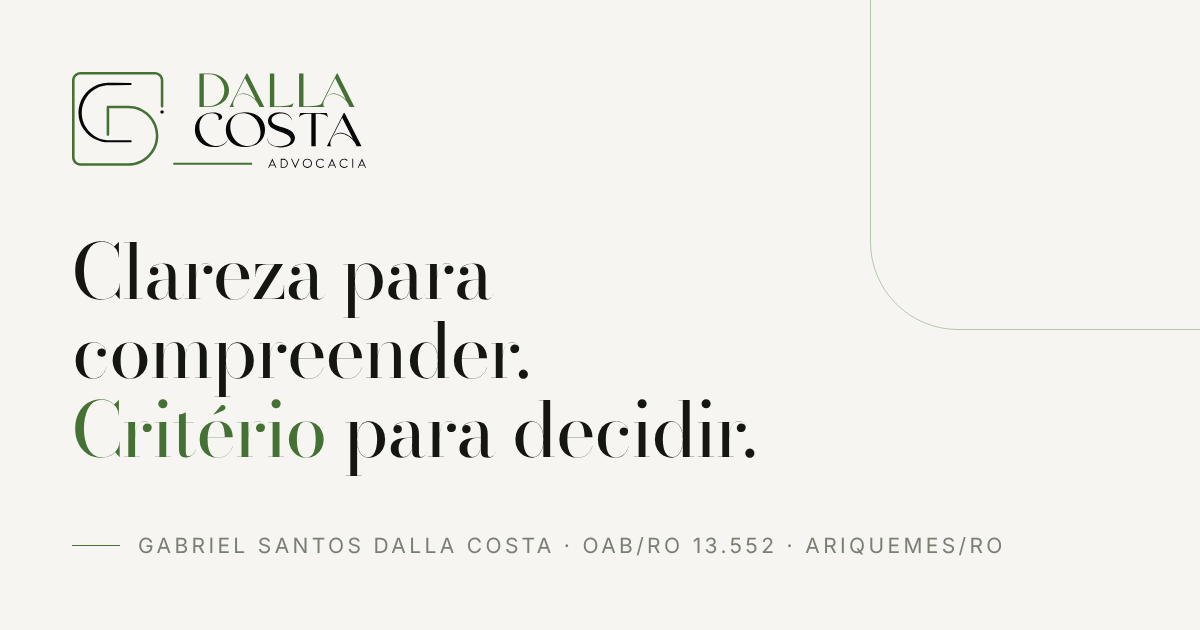
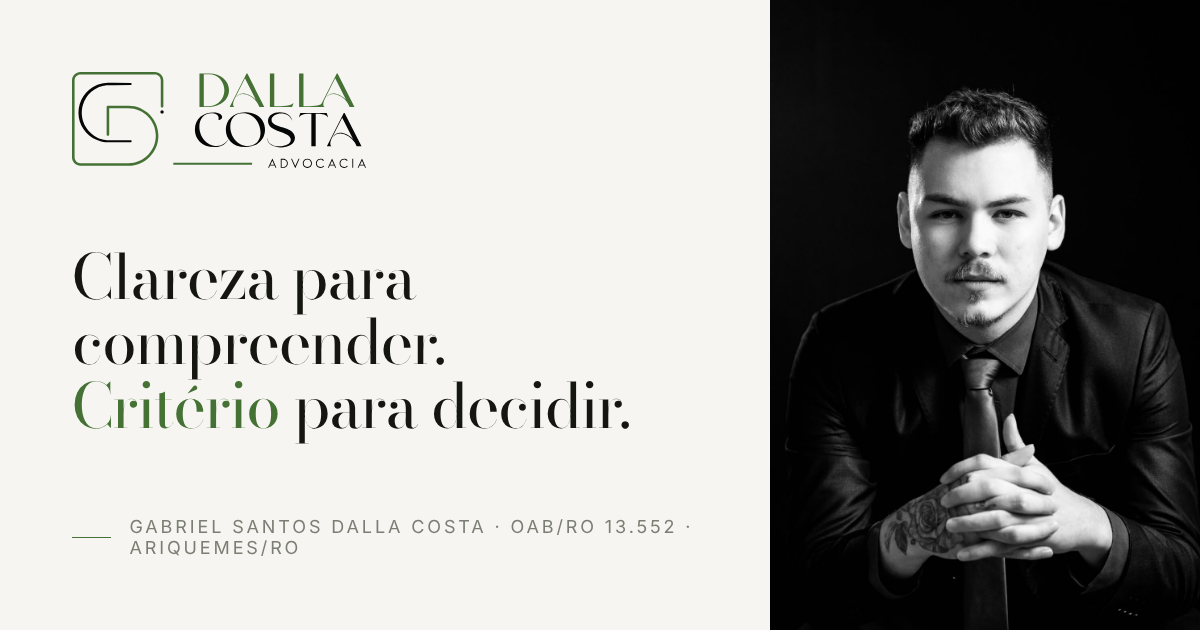
Aplica WhatsApp, domínio definitivo e retratos profissionais
- WhatsApp (69) 9 8104-3945 em formato internacional; o link é montado com a
  mensagem inicial corretamente codificada e aparece na página de contato, no
  bloco de encerramento, no rodapé e na barra fixa do celular.
- Domínio advocaciadallacosta.com.br passa a alimentar canonical, sitemap,
  robots e imagem de compartilhamento.
- Três retratos profissionais aplicados em posições distintas: preto e branco
  na primeira dobra (3:4), terno azul sentado na apresentação da home e
  sorrindo na página de perfil. Campos separados em site.fotos permitem trocar
  cada um sem afetar os outros.
- Imagem de Open Graph refeita com o retrato em preto e branco ao lado do
  logotipo e do slogan.
- Cabeçalho fixo e barra de contato do celular passam a fundo sólido: o
  conteúdo não transparece mais por trás deles ao rolar.
- Documentação atualizada: pendências restantes são e-mail profissional,
  provedor de hospedagem e, se aplicáveis, endereço e horários.

Claude-Session: https://claude.ai/code/session_01Xbs5o6TuRNAsZTSTyCj8D7

diff --git a/src/config/site.ts b/src/config/site.ts
@@ -46,7 +46,11 @@ export type SiteConfig = {
    * tipográfica da marca no lugar da fotografia — sem rosto genérico.
    */
   fotos: {
+    /** Primeira dobra da home. */
     heroRetrato: string | null;
+    /** Seção de apresentação na home. */
+    perfilRetrato: string | null;
+    /** Página /sobre. */
     sobreRetrato: string | null;
   };
   /**
@@ -71,23 +75,22 @@ export const site: SiteConfig = {
   cidadeBase: 'Ariquemes',
   uf: 'RO',
 
-  // PENDENTE: substituir pelo domínio definitivo antes de publicar.
-  dominio: 'https://www.dallacostaadvocacia.com.br',
+  dominio: 'https://advocaciadallacosta.com.br',
 
-  // PENDENTE: informar os canais reais. Enquanto forem null, o site não
-  // exibe link de WhatsApp nem endereço de e-mail.
-  whatsapp: null,
+  // 55 (país) + 69 (DDD) + número.
+  whatsapp: '5569981043945',
   mensagemWhatsapp: 'Olá, gostaria de informações sobre o atendimento.',
+  // PENDENTE: e-mail profissional. Enquanto for null, o canal não aparece.
   email: null,
   telefone: null,
   endereco: null,
   horarios: null,
   redes: [],
 
-  // PENDENTE: fotografia profissional real. Ver docs/CONTEUDO_E_PENDENCIAS.md.
   fotos: {
-    heroRetrato: null,
-    sobreRetrato: null,
+    heroRetrato: '/images/retrato-hero.jpg',
+    perfilRetrato: '/images/retrato-alternativo.jpg',
+    sobreRetrato: '/images/retrato-sobre.jpg',
   },
 
   atendimentoAtivo: true,

diff --git a/src/components/sections/Hero.tsx b/src/components/sections/Hero.tsx
@@ -45,15 +45,16 @@ export function Hero() {
           </div>
 
           <div className="entrada entrada-3 md:col-span-5">
-            <div className="relative mx-auto aspect-[4/5] w-full max-w-[20rem] md:max-w-none">
+            <div className="relative mx-auto aspect-[3/4] w-full max-w-[20rem] md:max-w-none">
               {retrato ? (
                 // eslint-disable-next-line @next/next/no-img-element -- retrato otimizado na origem; sem loader remoto.
                 <img
                   src={retrato}
                   alt={`Retrato de ${site.nomeApresentacao}, advogado`}
-                  width={720}
-                  height={900}
-                  className="h-full w-full rounded-[2.5rem] object-cover object-top"
+                  width={1066}
+                  height={1600}
+                  fetchPriority="high"
+                  className="h-full w-full rounded-[2.5rem] bg-escuro object-cover object-center"
                 />
               ) : (
                 <div className="flex h-full w-full items-center justify-center rounded-[2.5rem] bg-escuro px-10">

diff --git a/src/components/sections/Perfil.tsx b/src/components/sections/Perfil.tsx
@@ -11,7 +11,7 @@ import { site } from '@/config/site';
  * vazia esperando por uma fotografia.
  */
 export function Perfil() {
-  const retrato = site.fotos.sobreRetrato ?? site.fotos.heroRetrato;
+  const retrato = site.fotos.perfilRetrato ?? site.fotos.sobreRetrato;
 
   return (
     <Secao>
@@ -23,10 +23,10 @@ export function Perfil() {
               <img
                 src={retrato}
                 alt={`${site.nomeApresentacao}, advogado`}
-                width={640}
-                height={768}
+                width={1066}
+                height={1600}
                 loading="lazy"
-                className="h-full w-full object-cover object-top"
+                className="h-full w-full object-cover object-center"
               />
             </div>
           </div>

diff --git a/src/components/layout/SiteHeader.tsx b/src/components/layout/SiteHeader.tsx
@@ -44,7 +44,7 @@ export function SiteHeader({ navegacao }: { navegacao: ItemNavegacao[] }) {
   return (
     <header
       className={`sticky top-0 z-50 transition-colors duration-300 ${
-        rolou || menuAberto ? 'bg-papel/95 backdrop-blur-sm border-b border-linha' : 'bg-transparent border-b border-transparent'
+        rolou || menuAberto ? 'bg-papel border-b border-linha' : 'bg-transparent border-b border-transparent'
       }`}
     >
       <div className="mx-auto flex max-w-site items-center justify-between gap-6 px-gutter py-4 md:py-5">

diff --git a/src/components/layout/BarraContatoMobile.tsx b/src/components/layout/BarraContatoMobile.tsx
@@ -24,7 +24,7 @@ export function BarraContatoMobile() {
 
   return (
     <div
-      className={`fixed inset-x-0 bottom-0 z-40 border-t border-linha bg-papel/95 backdrop-blur-sm transition-transform duration-300 md:hidden ${
+      className={`fixed inset-x-0 bottom-0 z-40 border-t border-linha bg-papel transition-transform duration-300 md:hidden ${
         visivel ? 'translate-y-0' : 'translate-y-full'
       }`}
       style={{ paddingBottom: 'env(safe-area-inset-bottom)' }}

diff --git a/src/app/sobre/page.tsx b/src/app/sobre/page.tsx
@@ -49,8 +49,8 @@ export default function Sobre() {
                 <img
                   src={retrato}
                   alt={`${site.nomeApresentacao}, advogado`}
-                  width={640}
-                  height={768}
+                  width={1066}
+                  height={1600}
                   className="h-full w-full object-cover object-top"
                 />
               ) : (

diff --git a/docs/CONTEUDO_E_PENDENCIAS.md b/docs/CONTEUDO_E_PENDENCIAS.md
@@ -14,28 +14,41 @@ Situação em 23 de outubro de 2026.
 | Outras áreas | Avaliadas caso a caso e conduzidas em parceria — publicado como nota discreta, sem anunciar especialidade |
 | Disponibilidade | Apto e disponível para atender |
 | Modalidades | Presencial em Ariquemes/RO e por videoconferência |
+| WhatsApp | (69) 9 8104-3945 — gravado como `5569981043945` |
+| Domínio | `advocaciadallacosta.com.br` |
+| Retratos | Três fotografias profissionais recebidas e aplicadas |
 
 ## 2. Pendências que impedem a publicação
 
-| # | Pendência | Onde entra | Por que trava |
+| # | Pendência | Onde entra | Por que importa |
 | --- | --- | --- | --- |
-| 1 | **Número de WhatsApp** (formato internacional, ex.: `5569999999999`) | `src/config/site.ts` → `whatsapp` | Sem ele nenhum link é gerado. O site não inventa destinatário: a página de contato fica sem canal. |
-| 2 | **E-mail profissional** | `src/config/site.ts` → `email` | Mesmo motivo. |
-| 3 | **Domínio definitivo** | `src/config/site.ts` → `dominio` | Alimenta canonical, sitemap e imagem de compartilhamento. O valor atual é um palpite e precisa ser corrigido antes do build de produção. |
-| 4 | **Provedor de hospedagem** | `src/config/site.ts` → `provedorHospedagem` | Citado na política de privacidade. Enquanto `null`, a frase correspondente não aparece. |
+| 1 | **E-mail profissional** | `src/config/site.ts` → `email` | Enquanto for `null`, o e-mail não aparece em lugar nenhum. O WhatsApp já funciona, então o site tem canal — mas um e-mail é o segundo caminho esperado por quem prefere escrever. |
+| 2 | **Provedor de hospedagem** | `src/config/site.ts` → `provedorHospedagem` | Citado na política de privacidade. Enquanto `null`, a frase correspondente simplesmente não aparece. |
 
-Sem os itens 1 e 2 o site não deve ir ao ar: um site de advocacia sem canal de
-contato válido não cumpre a própria função.
+O site já tem canal de contato válido (WhatsApp) e pode ir ao ar sem o e-mail —
+mas vale incluí-lo antes de publicar.
 
 ## 3. Pendências que não travam, mas melhoram muito
 
 | # | Pendência | Observação |
 | --- | --- | --- |
-| 5 | **Retrato profissional** | Dois enquadramentos verticais 4:5: um para a primeira dobra (maior) e um para a página de perfil. Ver `docs/DIRECAO_VISUAL.md`, seção 5. Nenhum rosto foi gerado nem substituído. |
-| 6 | **Endereço do escritório** | Só preencher se houver atendimento presencial em endereço próprio e verificável. Endereço de correspondência ou coworking sem operação real não deve ser publicado — compromete também o Perfil da Empresa no Google. |
-| 7 | **Horários de atendimento** | Exibidos na página de contato quando preenchidos. |
-| 8 | **Telefone fixo ou celular para ligação** | Opcional; entra como terceiro canal. |
-| 9 | **Perfis oficiais** (ex.: LinkedIn) | Entram em `redes` e no `sameAs` do JSON-LD. Só perfis reais e atualizados. |
+| 3 | **Endereço do escritório** | Só preencher se houver atendimento presencial em endereço próprio e verificável. Endereço de correspondência ou coworking sem operação real não deve ser publicado — compromete também o Perfil da Empresa no Google. |
+| 4 | **Horários de atendimento** | Exibidos na página de contato quando preenchidos. |
+| 5 | **Telefone fixo ou celular para ligação** | Opcional; entra como terceiro canal. |
+| 6 | **Perfis oficiais** (ex.: LinkedIn) | Entram em `redes` e no `sameAs` do JSON-LD. Só perfis reais e atualizados. |
+
+## 3.1 Fotografias aplicadas
+
+Três retratos foram recebidos e distribuídos para não repetir a mesma imagem:
+
+| Arquivo | Onde aparece | Observação |
+| --- | --- | --- |
+| `public/images/retrato-hero.jpg` | Primeira dobra da home | Retrato em preto e branco, mãos entrelaçadas. É a imagem de maior peso do site e também compõe a imagem de compartilhamento. |
+| `public/images/retrato-alternativo.jpg` | Seção de apresentação na home | Retrato sentado, terno azul. |
+| `public/images/retrato-sobre.jpg` | Página `/sobre` | Retrato sorrindo, terno azul. |
+
+Para trocar qualquer uma delas, veja `docs/MANUTENCAO.md`, seção 2. Os três
+campos ficam em `site.fotos`: `heroRetrato`, `perfilRetrato` e `sobreRetrato`.
 
 ## 4. Conteúdo escrito que precisa da sua revisão
 

diff --git a/docs/SEO_E_BUSCA_LOCAL.md b/docs/SEO_E_BUSCA_LOCAL.md
@@ -181,7 +181,7 @@ Organiza o trabalho. **Não é promessa de posição em 90 dias.**
 
 | Período | Ações | Evidência |
 | --- | --- | --- |
-| Dias 1–15 | Preencher WhatsApp, e-mail e domínio; revisar e aprovar os textos; conferir situação cadastral na OAB/RO; executar a pesquisa de consultas localmente. | Config preenchida, textos aprovados, mapa de consultas com evidência. |
+| Dias 1–15 | Registrar e apontar o domínio; revisar e aprovar os textos; conferir situação cadastral na OAB/RO; executar a pesquisa de consultas localmente. | Domínio no ar, textos aprovados, mapa de consultas com evidência. |
 | Dias 16–30 | Publicar com `NEXT_PUBLIC_MODO_PREVIA=false`; verificar domínio no Search Console; enviar sitemap; avaliar elegibilidade do Perfil da Empresa. | Build publicado, URLs respondendo, sitemap aceito, perfil criado ou pendência registrada. |
 | Dias 31–60 | Publicar 2 textos revisados das áreas prioritárias; reforçar links internos; corrigir o que o Search Console apontar. | URLs publicadas e primeiro relatório de impressões. |
 | Dias 61–90 | Revisar consultas e páginas; atualizar textos fracos; decidir sobre teste pago só com orçamento aprovado. | Relatório de achados e lista priorizada. |
@@ -206,8 +206,10 @@ ninguém pode prometer citação. Nada disso foi implementado como requisito.
 
 ## 13. Checklist de publicação
 
-- [ ] WhatsApp e e-mail reais preenchidos em `src/config/site.ts`.
-- [ ] `dominio` apontando para o domínio definitivo, sem barra final.
+- [x] WhatsApp real preenchido em `src/config/site.ts`.
+- [ ] E-mail profissional preenchido (opcional, mas recomendado).
+- [x] `dominio` apontando para `https://advocaciadallacosta.com.br`.
+- [ ] Domínio registrado, apontado para a hospedagem e com HTTPS ativo.
 - [ ] Textos de áreas, perfil, FAQ e privacidade revisados e aprovados por você.
 - [ ] Situação cadastral na OAB/RO conferida.
 - [ ] `NEXT_PUBLIC_MODO_PREVIA=false` no ambiente de produção.

diff --git a/docs/MANUTENCAO.md b/docs/MANUTENCAO.md
@@ -24,21 +24,33 @@ fica para trás. Nunca escreva um número de exemplo.
 
 ## 2. Colocar o retrato e ajustar o enquadramento
 
-1. Salve as imagens em `public/images/`, por exemplo `retrato-hero.jpg` e
-   `retrato-sobre.jpg`. Exporte em torno de 1440 px de largura, qualidade 80.
-2. Em `src/config/site.ts`:
+São três posições independentes:
 
 ```ts
 fotos: {
-  heroRetrato: '/images/retrato-hero.jpg',
-  sobreRetrato: '/images/retrato-sobre.jpg',
+  heroRetrato: '/images/retrato-hero.jpg',          // primeira dobra da home
+  perfilRetrato: '/images/retrato-alternativo.jpg', // apresentação na home
+  sobreRetrato: '/images/retrato-sobre.jpg',        // página /sobre
 },
 ```
 
-O painel de marca sai e a fotografia entra no mesmo espaço. O recorte usa
-`object-top` para não cortar o rosto em telas estreitas. Para mudar o
-enquadramento, troque `object-top` por `object-center` em
-`src/components/sections/Hero.tsx` e `src/app/sobre/page.tsx`.
+1. Salve a imagem em `public/images/`. Vertical, em torno de 1200 px de largura,
+   qualidade 80. Os arquivos atuais têm 1066 × 1600 px e cerca de 100 KB cada.
+2. Aponte o campo correspondente para o novo caminho.
+
+Qualquer campo em `null` faz aquela posição voltar ao painel de marca — nunca a
+uma moldura vazia.
+
+**Enquadramento.** Cada posição tem uma proporção e um ponto de ancoragem:
+
+| Posição | Proporção | Ancoragem | Arquivo |
+| --- | --- | --- | --- |
+| Hero | 3:4 | `object-center` | `src/components/sections/Hero.tsx` |
+| Apresentação | 5:6 | `object-center` | `src/components/sections/Perfil.tsx` |
+| Perfil | 5:6 | `object-top` | `src/app/sobre/page.tsx` |
+
+Se a cabeça ficar cortada depois de trocar a foto, alterne entre `object-top`,
+`object-center` e `object-bottom` no arquivo indicado.
 
 ## 3. Adicionar ou remover uma área de atuação
 

diff --git a/docs/DIRECAO_VISUAL.md b/docs/DIRECAO_VISUAL.md
@@ -93,15 +93,22 @@ entreletra, ecoando o “ADVOCACIA” do logotipo.
 
 ## 5. Fotografia
 
-Não há fotografia aprovada. Em vez de uma moldura vazia ou de um retrato
-genérico, a primeira dobra e a página de perfil usam um painel escuro com o
-lockup vertical em negativo — uma composição de marca deliberada.
+Três retratos profissionais, todos em fundo escuro, distribuídos em posições
+distintas para não repetir a mesma imagem:
 
-Quando o retrato chegar, basta preencher `site.fotos.heroRetrato` e
-`site.fotos.sobreRetrato`: os componentes trocam o painel pela fotografia no
-mesmo espaço, com recorte `object-top` para preservar o rosto em telas estreitas.
-Direção recomendada: retrato real, enquadramento vertical 4:5, luz suave,
-tratamento sóbrio, fundo neutro, olhar voltado para o centro da composição.
+- **Primeira dobra:** retrato em preto e branco, mãos entrelaçadas, proporção
+  3:4. O preto e branco conversa com a tinta quase preta da marca e deixa o
+  verde como único ponto de cor da tela — foi escolhido por isso.
+- **Apresentação na home:** retrato sentado, terno azul, proporção 5:6.
+- **Página de perfil:** retrato sorrindo, terno azul, proporção 5:6, ancorado
+  no topo para preservar o rosto em telas estreitas.
+
+O mesmo retrato em preto e branco compõe a imagem de compartilhamento
+(`public/opengraph-image.png`), ao lado do logotipo e do slogan.
+
+Os campos ficam em `site.fotos`. Qualquer um em `null` devolve aquela posição ao
+painel escuro com o lockup vertical em negativo — nenhuma moldura vazia e nenhum
+rosto genérico em lugar nenhum.
 
 ## 6. Movimento
 

diff --git a/README.md b/README.md
@@ -52,7 +52,8 @@ Passo a passo das edições mais comuns: `docs/MANUTENCAO.md`.
 
 ## Publicação
 
-1. Preencher WhatsApp, e-mail e domínio em `src/config/site.ts`.
+1. Conferir contatos e domínio em `src/config/site.ts` (WhatsApp e domínio já
+   preenchidos; e-mail ainda pendente).
 2. Conferir `docs/CONTEUDO_E_PENDENCIAS.md` — nada pendente deve ir ao ar.
 3. Definir `NEXT_PUBLIC_MODO_PREVIA=false` no ambiente de produção.
 4. `npm run build` e publicar em qualquer hospedagem com suporte a Next.js
